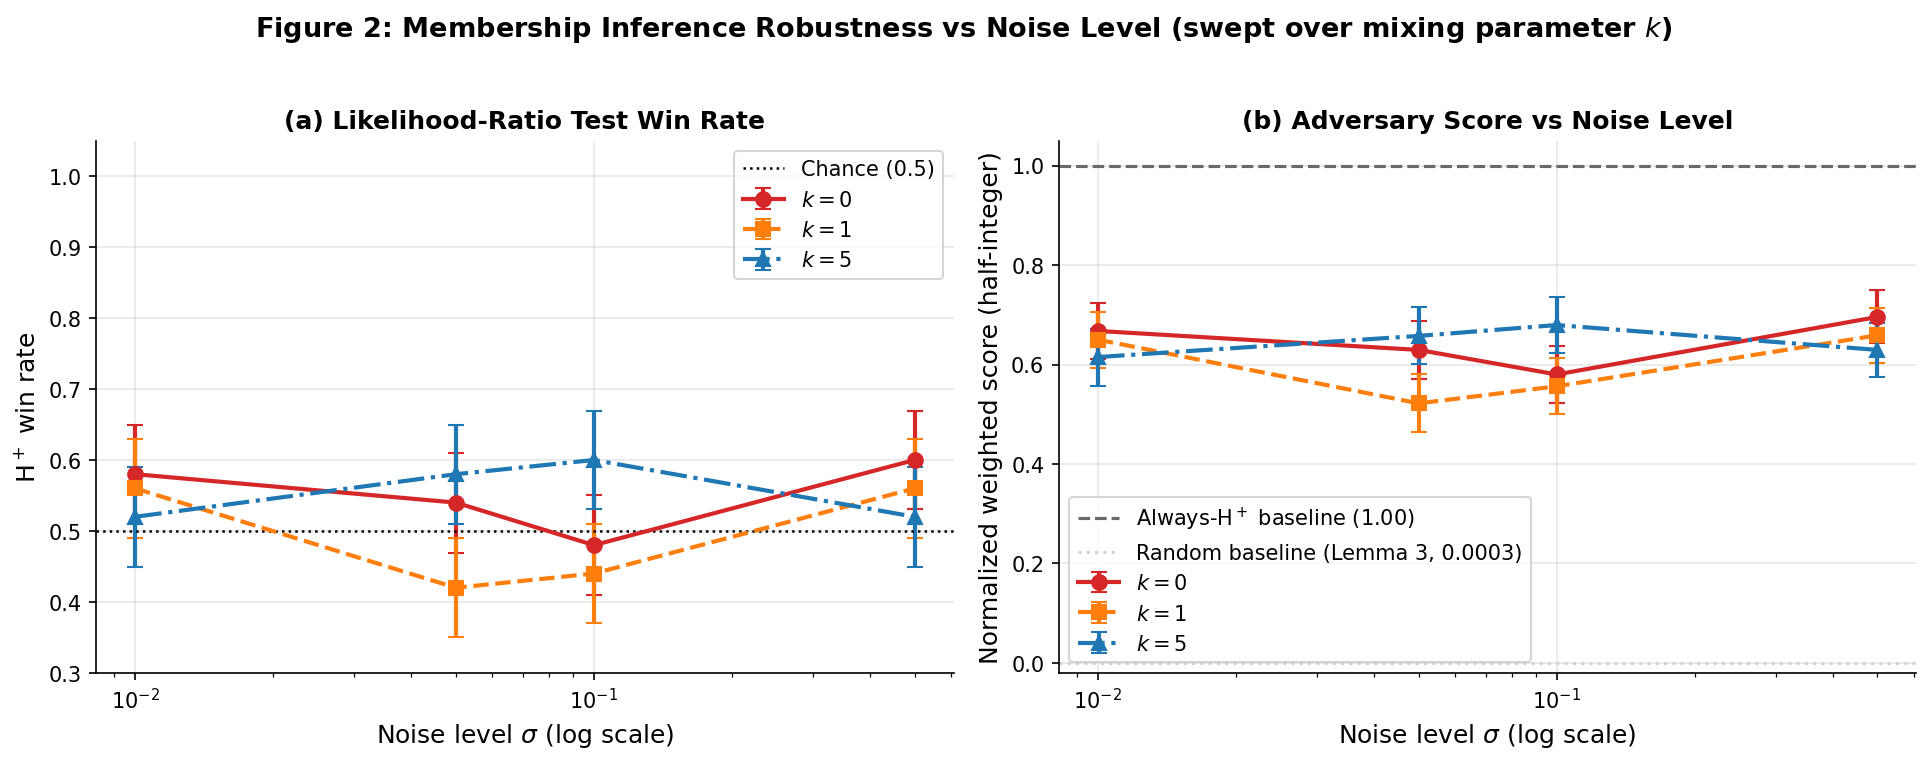
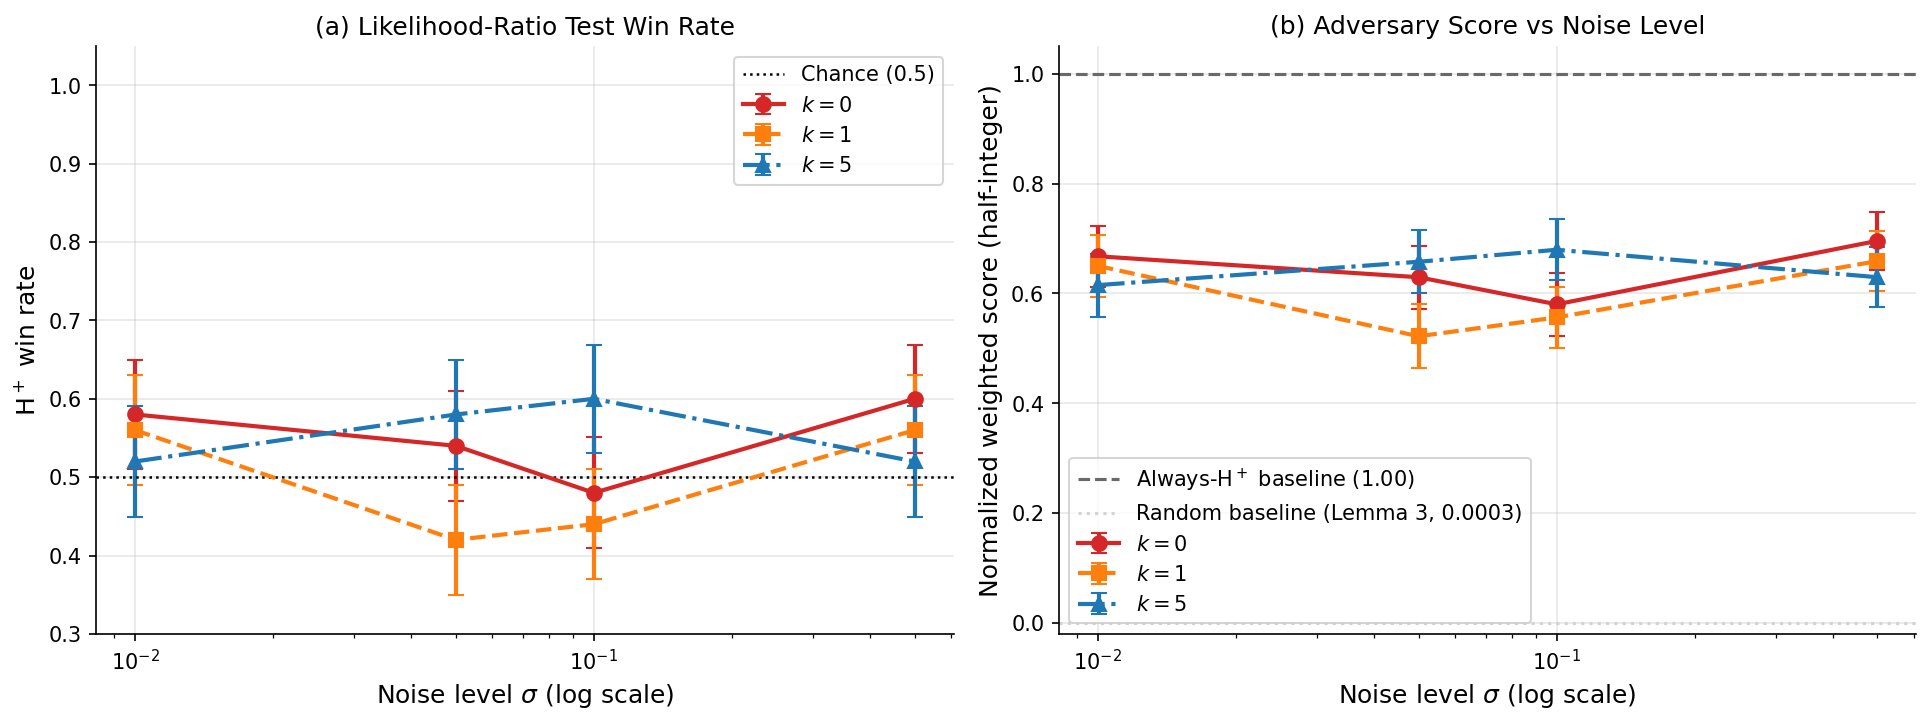
tweaked and generated plots

diff --git a/figure4_pareto.py b/figure4_pareto.py
@@ -3,17 +3,22 @@ figure4_pareto.py
 
 Figure 4 of "Learnable Obfuscation for Temporally Related Video Data".
 
-Privacy-utility Pareto frontier. For each (k, sigma) cell:
+Privacy-utility scatter. For each (k, sigma) cell:
   x-axis = test accuracy of obfuscated classifier (utility)
   y-axis = 1 - normalized adversary score (privacy; larger = more private)
 
-One curve per k, connecting sigma values in increasing order. Each point
-labeled by sigma. Baseline accuracy shown as a vertical reference line
-(the utility ceiling).
+Encoding:
+  color + linestyle -> k (mixing intensity)
+  marker size       -> sigma (noise level, small = low sigma)
 
-Joins merged_accuracy.csv (from main_video.py + merge_accuracy.py) with
-merged_results.csv (from membership_inference.py + merge_results.py)
-on (k, sigma).
+Two legends (one for k, one for sigma) are placed outside the plot area
+on the right to keep the data region uncluttered.
+
+Reference lines:
+  vertical dotted = no-obfuscation baseline accuracy
+  horizontal dashed = always-H+ privacy floor
+
+Joins merged_accuracy.csv with merged_results.csv on (k, sigma).
 """
 
 import argparse
@@ -23,6 +28,7 @@ import sys
 import numpy as np
 import pandas as pd
 import matplotlib.pyplot as plt
+from matplotlib.lines import Line2D
 
 
 K_STYLE = {
@@ -30,6 +36,12 @@ K_STYLE = {
     1: ("#ff7f0e", "s", "--"),
     5: ("#1f77b4", "^", "-."),
 }
+
+# map sigma -> marker size (points).  Small sigma -> small marker.
+def sigma_to_size(sigma: float) -> float:
+    # linear map; tune endpoints here if needed
+    size_map = {0.01: 6, 0.05: 10, 0.10: 14, 0.50: 20}
+    return size_map.get(round(sigma, 2), 10)
 
 
 def load_and_join(accuracy_path: str, mia_path: str) -> pd.DataFrame:
@@ -45,7 +57,6 @@ def load_and_join(accuracy_path: str, mia_path: str) -> pd.DataFrame:
     acc = pd.read_csv(accuracy_path)
     mia = pd.read_csv(mia_path)
 
-    # round sigma to avoid float-equality issues during join
     acc["sigma"] = acc["sigma"].round(6)
     mia["sigma"] = mia["sigma"].round(6)
 
@@ -64,60 +75,93 @@ def load_and_join(accuracy_path: str, mia_path: str) -> pd.DataFrame:
 
 
 def make_figure(joined: pd.DataFrame, save_path: str):
-    fig, ax = plt.subplots(figsize=(8, 6))
+    fig, ax = plt.subplots(figsize=(9, 5.5))
 
-    # privacy axis: 1 - adversary score (half-integer rule)
     joined = joined.copy()
     joined["privacy"] = 1.0 - joined["score_half"]
 
+    # draw lines per k, and markers sized by sigma
     for k in sorted(joined["k"].unique()):
         sub = joined[joined["k"] == k].sort_values("sigma")
         color, marker, ls = K_STYLE.get(k, ("gray", "o", "-"))
 
+        # connecting line (sigma-ordered)
         ax.plot(
             sub["accuracy_obfuscated"], sub["privacy"],
-            color=color, linestyle=ls, marker=marker,
-            markersize=10, linewidth=2.0,
-            label=f"$k = {k}$",
+            color=color, linestyle=ls, linewidth=1.5,
+            alpha=0.6, zorder=1,
         )
 
-        # annotate each point with its sigma value
-        for _, row in sub.iterrows():
-            ax.annotate(
-                f"$\\sigma={row['sigma']:.2f}$",
-                xy=(row["accuracy_obfuscated"], row["privacy"]),
-                xytext=(8, 5), textcoords="offset points",
-                fontsize=9, color=color,
-            )
+        # markers: size encodes sigma
+        sizes = [sigma_to_size(s) ** 2 for s in sub["sigma"]]
+        ax.scatter(
+            sub["accuracy_obfuscated"], sub["privacy"],
+            s=sizes, c=color, marker=marker,
+            edgecolors="white", linewidths=1.0,
+            zorder=3,
+        )
 
-    # baseline accuracy as vertical reference line (utility ceiling)
+    # reference lines
     if "accuracy_baseline" in joined.columns:
         baseline_acc = joined["accuracy_baseline"].iloc[0]
         ax.axvline(
-            x=baseline_acc, color="black", linestyle=":", linewidth=1.5,
-            label=f"Baseline accuracy ({baseline_acc:.1f}%)",
+            x=baseline_acc, color="black", linestyle=":", linewidth=1.2,
+        )
+        ax.text(
+            baseline_acc, ax.get_ylim()[1] * 0.98 if ax.get_ylim()[1] else 0.5,
+            f" baseline ({baseline_acc:.1f}%)",
+            fontsize=9, color="black", va="top",
         )
 
-    # always-H+ baseline as horizontal privacy reference
     always_h_plus = joined["always_h_plus_half"].mean()
+    privacy_floor = 1.0 - always_h_plus
     ax.axhline(
-        y=1.0 - always_h_plus,
+        y=privacy_floor,
         color="dimgray", linestyle="--", linewidth=1.0,
-        label=f"Always-H$^+$ privacy floor ({1-always_h_plus:.2f})",
+    )
+    ax.text(
+        ax.get_xlim()[0] if ax.get_xlim()[0] else 40,
+        privacy_floor, f" always-$H^+$ floor ({privacy_floor:.2f})",
+        fontsize=9, color="dimgray", va="bottom",
     )
 
     ax.set_xlabel("Test accuracy (%)", fontsize=12)
     ax.set_ylabel(r"Privacy: $1 - \mathrm{normalized\ adversary\ score}$",
                   fontsize=12)
-    ax.set_title(
-        "Figure 4: Privacy-Utility Pareto Frontier\n"
-        "(half-integer weighted MIA score)",
-        fontsize=13, fontweight="bold",
-    )
     ax.grid(True, alpha=0.3)
     ax.spines["top"].set_visible(False)
     ax.spines["right"].set_visible(False)
-    ax.legend(fontsize=10, loc="best")
+
+    # -------- two separate legends, placed outside the plot --------
+    k_handles = [
+        Line2D([0], [0],
+               color=K_STYLE[k][0], linestyle=K_STYLE[k][2],
+               marker=K_STYLE[k][1], markersize=9, linewidth=1.5,
+               label=f"$k = {k}$")
+        for k in sorted(joined["k"].unique())
+    ]
+    sigma_vals = sorted(joined["sigma"].unique())
+    sigma_handles = [
+        Line2D([0], [0],
+               color="gray", linestyle="None",
+               marker="o", markersize=sigma_to_size(s),
+               label=f"$\\sigma = {s:.2f}$")
+        for s in sigma_vals
+    ]
+
+    leg_k = ax.legend(
+        handles=k_handles, title="Mixing",
+        loc="upper left", bbox_to_anchor=(1.02, 1.0),
+        fontsize=10, title_fontsize=11, frameon=True,
+    )
+    ax.add_artist(leg_k)
+
+    ax.legend(
+        handles=sigma_handles, title="Noise",
+        loc="upper left", bbox_to_anchor=(1.02, 0.55),
+        fontsize=10, title_fontsize=11, frameon=True,
+        labelspacing=1.4, handletextpad=1.0, borderpad=0.8,
+    )
 
     plt.tight_layout()
     plt.savefig(save_path, dpi=150, bbox_inches="tight")

diff --git a/figure3_integer_vs_half.py b/figure3_integer_vs_half.py
@@ -5,16 +5,12 @@ Figure 3 of "Learnable Obfuscation for Temporally Related Video Data".
 
 Three side-by-side panels (one per k value) comparing the empirical
 adversary score under integer vs half-integer weighting rules at
-matched noise level. Empirically validates the prior-success gap
-predicted by Lemma 3 and the noise-calibration consequence of
-Theorem 7.
+matched noise level.
 
 For each panel:
   x-axis = noise level sigma (log scale)
   y-axis = normalized adversary score
   curves: score_int (blue, solid) and score_half (red, dashed)
-  refs:   integer random baseline (light blue dotted)
-          half-integer random baseline (light red dotted)
 
 Shares a y-axis across panels for direct visual comparison.
 
@@ -41,7 +37,7 @@ RULE_STYLE = {
 def _style_ax(ax, xlabel, ylabel, title):
     ax.set_xlabel(xlabel, fontsize=11)
     ax.set_ylabel(ylabel, fontsize=11)
-    ax.set_title(title, fontsize=12, fontweight="bold")
+    ax.set_title(title, fontsize=12)
     ax.grid(True, alpha=0.3)
     ax.spines["top"].set_visible(False)
     ax.spines["right"].set_visible(False)
@@ -67,21 +63,6 @@ def plot_panel(ax, df_k: pd.DataFrame, k: int, show_ylabel: bool):
             label=label,
         )
 
-    # analytical random baselines per rule (near-constant across sigma)
-    rand_int = sub["random_baseline_int"].mean()
-    rand_half = sub["random_baseline_half"].mean()
-
-    ax.axhline(
-        y=rand_int, color=RULE_STYLE["int"][0],
-        linestyle=":", linewidth=1.0, alpha=0.6,
-        label=f"Integer random baseline ({rand_int:.4f})",
-    )
-    ax.axhline(
-        y=rand_half, color=RULE_STYLE["half"][0],
-        linestyle=":", linewidth=1.0, alpha=0.6,
-        label=f"Half-integer random baseline ({rand_half:.4f})",
-    )
-
     ax.set_xscale("log")
     _style_ax(
         ax,
@@ -89,8 +70,6 @@ def plot_panel(ax, df_k: pd.DataFrame, k: int, show_ylabel: bool):
         ylabel=r"Normalized adversary score" if show_ylabel else "",
         title=f"$k = {k}$",
     )
-    if not show_ylabel:
-        ax.set_yticklabels([])
 
 
 def make_figure(df: pd.DataFrame, save_path: str):
@@ -105,19 +84,18 @@ def make_figure(df: pd.DataFrame, save_path: str):
     if n_panels == 1:
         axes = [axes]
 
-    # determine shared y-limits across panels for fair comparison
-    ymin = min(df["score_int"].min(), df["score_half"].min(),
-               df["random_baseline_int"].min(), df["random_baseline_half"].min())
+    # shared y-limits: pad data range symmetrically, clamped to [0, 1.05]
+    ymin = min(df["score_int"].min(), df["score_half"].min())
     ymax = max(df["score_int"].max(), df["score_half"].max())
-    ypad = 0.05 * (ymax - ymin)
-    yrange = (max(0, ymin - ypad), min(1.05, ymax + ypad))
+    pad = 0.5 * (ymax - ymin)
+    yrange = (max(0.0, ymin - pad), min(1.05, ymax + pad))
 
     for ax, k in zip(axes, ks):
         df_k = df[df["k"] == k]
         plot_panel(ax, df_k, k, show_ylabel=(k == ks[0]))
         ax.set_ylim(yrange)
 
-    # one legend for the whole figure (use first panel's handles)
+    # one legend for the whole figure
     handles, labels = axes[0].get_legend_handles_labels()
     fig.legend(
         handles, labels,
@@ -125,11 +103,6 @@ def make_figure(df: pd.DataFrame, save_path: str):
         ncol=2, fontsize=10, frameon=True,
     )
 
-    fig.suptitle(
-        "Figure 3: Integer vs Half-Integer Weighted MIA Score "
-        "(per mixing intensity $k$)",
-        fontsize=13, fontweight="bold", y=1.02,
-    )
     plt.tight_layout()
     plt.savefig(save_path, dpi=150, bbox_inches="tight")
     plt.close()

diff --git a/figure2_mia_robustness.py b/figure2_mia_robustness.py
@@ -7,16 +7,11 @@ Two-panel figure showing membership inference attack robustness vs noise
 level (sigma), swept over mixing parameter k:
 
   Panel (a): H+ win rate vs sigma, one curve per k. Reference line at 0.5
-             (chance). Demonstrates that the likelihood-ratio test
-             succeeds at low sigma when mixing is weak (k=0) and is
-             neutralized as k grows.
+             (chance).
 
   Panel (b): Normalized weighted score (half-integer rule) vs sigma, one
              curve per k. Two reference lines: analytical Lemma-3 random
-             baseline (lower bound on adversary success) and always-
-             guess-H+ baseline (the prior advantage from linspace
-             sampling structure). The meaningful adversary advantage is
-             the gap above the always-H+ line.
+             baseline and always-guess-H+ baseline.
 
 Reads merged_results.csv produced by merge_results.py.
 Writes fig2_mia_robustness.png.
@@ -42,7 +37,7 @@ K_STYLE = {
 def _style_ax(ax, xlabel, ylabel, title):
     ax.set_xlabel(xlabel, fontsize=12)
     ax.set_ylabel(ylabel, fontsize=12)
-    ax.set_title(title, fontsize=12, fontweight="bold")
+    ax.set_title(title, fontsize=12)
     ax.grid(True, alpha=0.3)
     ax.spines["top"].set_visible(False)
     ax.spines["right"].set_visible(False)
@@ -82,16 +77,11 @@ def plot_normalized_score(ax, df: pd.DataFrame):
     """
     Panel (b): Normalized weighted score (half) vs sigma, one curve per k.
     Reference lines: Lemma-3 random baseline and always-H+ baseline.
-
-    Both baselines are averaged over the (k, sigma) cells, since they
-    depend only on the per-clip universe partition (not on the attack).
-    They are essentially constant across cells.
     """
     for k in sorted(df["k"].unique()):
         sub = df[df["k"] == k].sort_values("sigma")
         color, marker, ls = K_STYLE.get(k, ("gray", "o", "-"))
 
-        # error bars: std of per-target weighted score / sqrt(n_targets)
         n_t = sub["n_targets"].iloc[0]
         se = sub["score_half_std"] / np.sqrt(n_t)
 
@@ -103,7 +93,6 @@ def plot_normalized_score(ax, df: pd.DataFrame):
             label=f"$k = {k}$",
         )
 
-    # reference lines (averaged across all cells; near-constant in practice)
     rand_half = df["random_baseline_half"].mean()
     always_h_plus = df["always_h_plus_half"].mean()
 
@@ -132,11 +121,6 @@ def make_figure(df: pd.DataFrame, save_path: str):
     plot_h_plus_win_rate(axes[0], df)
     plot_normalized_score(axes[1], df)
 
-    fig.suptitle(
-        "Figure 2: Membership Inference Robustness vs Noise Level "
-        "(swept over mixing parameter $k$)",
-        fontsize=13, fontweight="bold", y=1.02,
-    )
     plt.tight_layout()
     plt.savefig(save_path, dpi=150, bbox_inches="tight")
     plt.close()

diff --git a/plot_prior_success.py b/plot_prior_success.py
@@ -117,15 +117,15 @@ def plot_prior_success(
     ax.step(j_int[j_int <= zoom],
             prior_int[j_int <= zoom],
             where="post", color="steelblue", linewidth=2.0,
-            label="Integer weights (exact match)")
+            label="Integer weights")
     ax.step(j_half[j_half <= zoom],
             prior_half[j_half <= zoom],
             where="post", color="tomato", linewidth=2.0, linestyle="--",
             label="Half-integer weights")
-    ax.set_xlabel("Threshold $j$", fontsize=13)
-    ax.set_ylabel(r"$1 - \delta_0^{\geq j}$  (prior success prob.)",
+    ax.set_xlabel("Threshold ($j$)", fontsize=13)
+    ax.set_ylabel(r"Prior success probability ($1 - \delta_0^{\geq j}$)",
                   fontsize=13)
-    ax.set_title("Prior Success Probability vs Threshold", fontsize=13)
+    # ax.set_title("Prior Success Probability vs Threshold", fontsize=13)
     ax.legend(fontsize=11)
     ax.set_xlim(0, zoom)
     ax.set_ylim(0, 1.02)
@@ -137,11 +137,11 @@ def plot_prior_success(
         bbox=dict(boxstyle="round,pad=0.3", fc="white", alpha=0.8),
     )
 
-    plt.suptitle(
-        "Lemma 3: Half-Integer Weights Increase Adversary Prior Success\n"
-        r"(larger $1-\delta_0^{\geq j}$ $\Rightarrow$ harder to protect privacy)",
-        fontsize=13, fontweight="bold", y=1.02,
-    )
+    # plt.suptitle(
+    #     "Lemma 3: Half-Integer Weights Increase Adversary Prior Success\n"
+    #     r"(larger $1-\delta_0^{\geq j}$ $\Rightarrow$ harder to protect privacy)",
+    #     fontsize=13, fontweight="bold", y=1.02,
+    # )
     plt.tight_layout()
     plt.savefig(save_path, dpi=150, bbox_inches="tight")
     plt.close()
